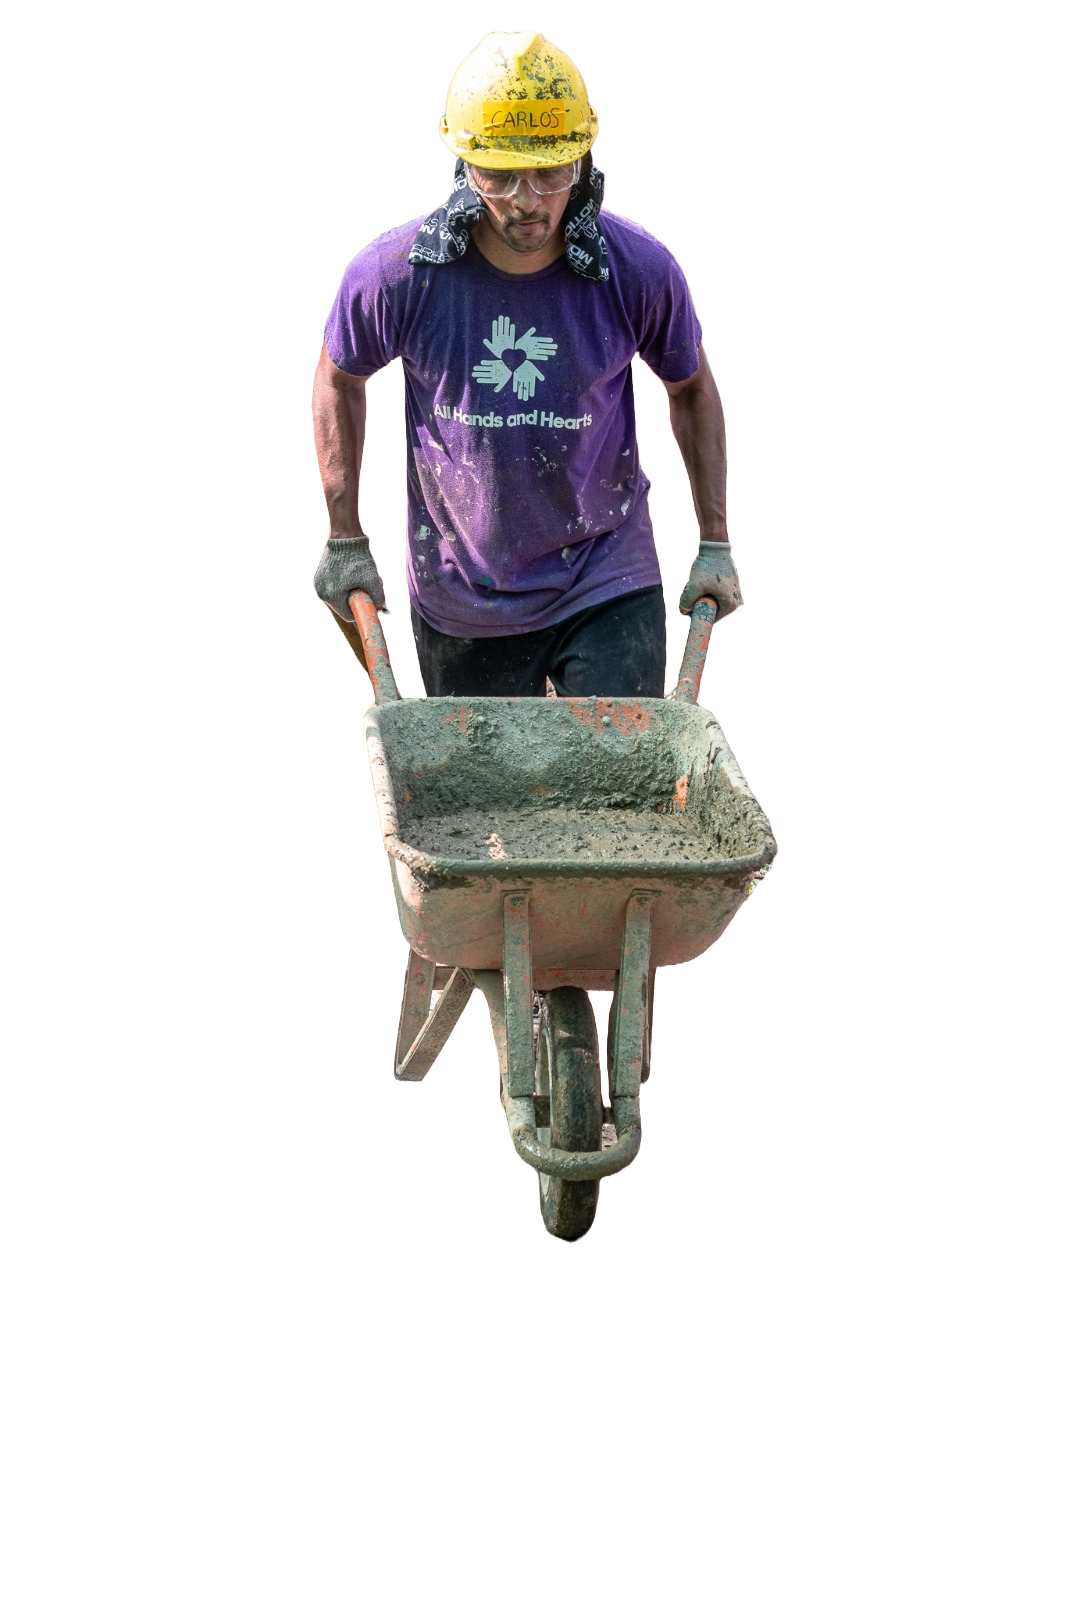
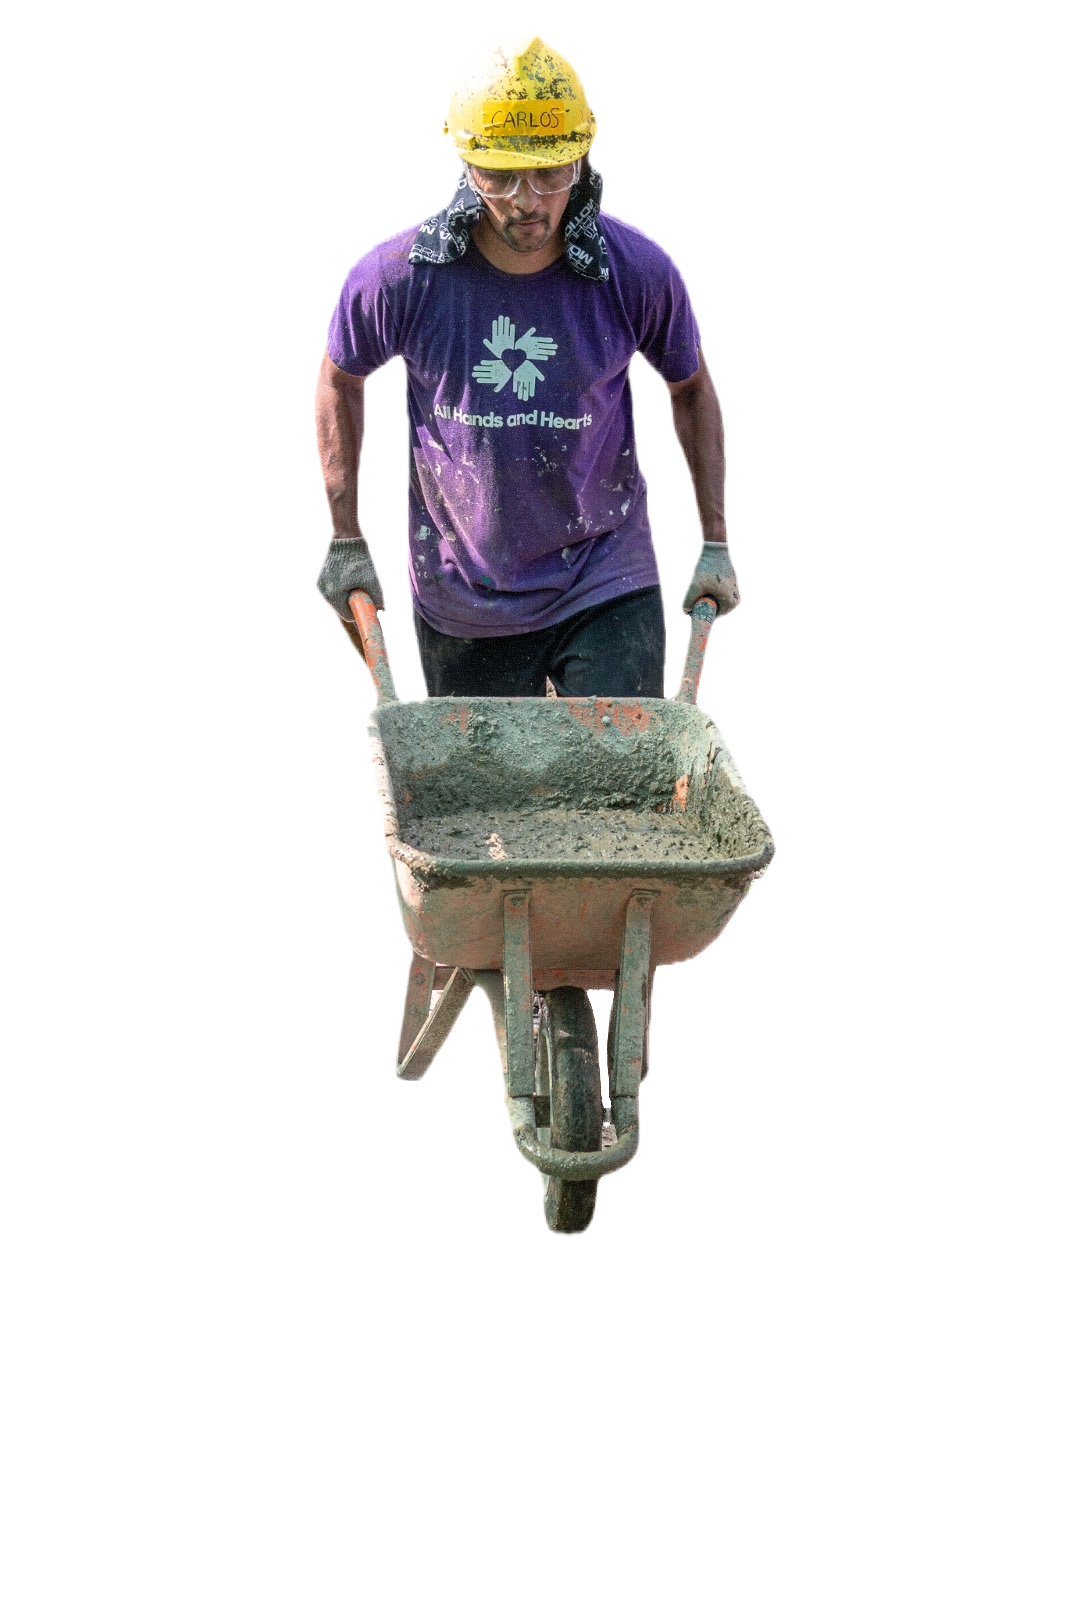
klæ

diff --git a/pages/travel/flight-log.html b/pages/travel/flight-log.html
@@ -126,6 +126,21 @@
     }
     .hs-unit { font-family: 'JetBrains Mono', monospace; font-size: 0.62rem; letter-spacing: 0.14em; color: var(--c-travel); text-transform: uppercase; margin-top: 0.3rem; }
     .hs-lbl { font-size: 0.78rem; color: var(--mute); margin-top: 0.3rem; line-height: 1.3; }
+    /* ── STATS + GLOBE side-by-side row ── */
+    .stats-globe-row {
+      display: flex; gap: 2.5rem; align-items: flex-start; margin-bottom: 4rem;
+    }
+    .sgr-left { flex: 0 0 300px; }
+    .sgr-right { flex: 1; min-width: 0; }
+    .sgr-left .hero-stats {
+      grid-template-columns: repeat(2, 1fr);
+      margin-bottom: 0;
+    }
+    @media (max-width: 1000px) {
+      .stats-globe-row { flex-direction: column; }
+      .sgr-left { flex: none; width: 100%; }
+      .sgr-left .hero-stats { grid-template-columns: repeat(3, 1fr); }
+    }
     @media (max-width: 900px) { .hero-stats { grid-template-columns: repeat(3, 1fr); gap: 1.5rem 1rem; } }
     @media (max-width: 480px) { .hero-stats { grid-template-columns: repeat(2, 1fr); padding: 1.5rem; } }
 
@@ -671,11 +686,12 @@
     @keyframes hintPulse { 0%,100% { opacity: 0.4; } 50% { opacity: 1; } }
     .globe-hint.fade { opacity: 0; }
     .globe-legend {
-      position: absolute; top: 1rem; right: 1rem; z-index: 5;
-      display: flex; flex-direction: column; gap: 0.45rem;
+      display: flex; flex-direction: row; gap: 1.25rem;
+      align-items: center;
+      margin-top: 0.75rem;
+      padding: 0.6rem 0.9rem;
       background: rgba(8,9,14,0.65); backdrop-filter: blur(12px);
-      border: 1px solid var(--line); border-radius: 12px;
-      padding: 0.8rem 0.95rem;
+      border: 1px solid var(--line); border-radius: 10px;
       font-family: 'JetBrains Mono', monospace;
       font-size: 0.62rem; letter-spacing: 0.1em; text-transform: uppercase;
       color: var(--text-dim);
@@ -873,54 +889,54 @@
     <p>176 flights logged since 2000 — every boarding pass, every aircraft type, every airport. Tracked on FlightRadar24 and mirrored here. Below: live ADS-B feed from my receiver in Aarhus, plus the full lifetime ledger.</p>
   </div>
 
-  <!-- ══ HERO STATS ══ -->
-  <div class="hero-stats wow">
-    <div class="hs-cell">
-      <div class="hs-num" data-target="176">0</div>
-      <div class="hs-unit">flights</div>
-      <div class="hs-lbl">Logged since 2000</div>
+  <!-- ══ STATS + GLOBE ══ -->
+  <div class="stats-globe-row wow">
+    <div class="sgr-left">
+      <div class="hero-stats">
+        <div class="hs-cell">
+          <div class="hs-num" data-target="176">0</div>
+          <div class="hs-unit">flights</div>
+          <div class="hs-lbl">Logged since 2000</div>
+        </div>
+        <div class="hs-cell">
+          <div class="hs-num" data-target="491">0</div>
+          <div class="hs-unit">hours airborne</div>
+          <div class="hs-lbl">≈ 20.5 days in the sky</div>
+        </div>
+        <div class="hs-cell">
+          <div class="hs-num" data-target="40">0</div>
+          <div class="hs-unit">countries</div>
+          <div class="hs-lbl">4 continents touched</div>
+        </div>
+        <div class="hs-cell">
+          <div class="hs-num" data-target="71">0</div>
+          <div class="hs-unit">airports</div>
+          <div class="hs-lbl">Unique IATA codes</div>
+        </div>
+        <div class="hs-cell">
+          <div class="hs-num" data-target="43">0</div>
+          <div class="hs-unit">airlines</div>
+          <div class="hs-lbl">From flag-carriers to LCCs</div>
+        </div>
+        <div class="hs-cell">
+          <div class="hs-num" data-target="36">0</div>
+          <div class="hs-unit">aircraft types</div>
+          <div class="hs-lbl">A380s to Twin Otters</div>
+        </div>
+      </div>
     </div>
-    <div class="hs-cell">
-      <div class="hs-num" data-target="491">0</div>
-      <div class="hs-unit">hours airborne</div>
-      <div class="hs-lbl">≈ 20.5 days in the sky</div>
-    </div>
-    <div class="hs-cell">
-      <div class="hs-num" data-target="40">0</div>
-      <div class="hs-unit">countries</div>
-      <div class="hs-lbl">4 continents touched</div>
-    </div>
-    <div class="hs-cell">
-      <div class="hs-num" data-target="71">0</div>
-      <div class="hs-unit">airports</div>
-      <div class="hs-lbl">Unique IATA codes</div>
-    </div>
-    <div class="hs-cell">
-      <div class="hs-num" data-target="43">0</div>
-      <div class="hs-unit">airlines</div>
-      <div class="hs-lbl">From flag-carriers to LCCs</div>
-    </div>
-    <div class="hs-cell">
-      <div class="hs-num" data-target="36">0</div>
-      <div class="hs-unit">aircraft types</div>
-      <div class="hs-lbl">A380s to Twin Otters</div>
-    </div>
-  </div>
-
-  <!-- ══ GLOBE — flight routes ══ -->
-  <section class="section wow">
-    <div class="section-eyebrow">Worldview</div>
-    <h2>Routes around the world</h2>
-    <div class="globe-stage">
-      <div id="flight-globe"></div>
+    <div class="sgr-right">
+      <div class="globe-stage">
+        <div id="flight-globe"></div>
+        <div class="globe-hint">Drag · Scroll to zoom</div>
+        <div class="globe-loading" id="globeLoading"><div class="spinner"></div><p>Initialising globe…</p></div>
+      </div>
       <div class="globe-legend">
         <div class="lg-row"><span class="lg-swatch" style="background:linear-gradient(90deg, rgba(255,204,132,0.3), rgba(255,232,184,0.6), rgba(255,248,224,0.9), #ffffff)"></span> Flight route</div>
         <div class="lg-row"><span class="lg-dot" style="background:#ff3344;box-shadow:0 0 6px #ff3344"></span> Airport visited</div>
       </div>
-      <div class="globe-hint">Drag · Scroll to zoom</div>
-      <div class="globe-loading" id="globeLoading"><div class="spinner"></div><p>Initialising globe…</p></div>
     </div>
-  </section>
+  </div>
 
   <!-- ══ TOP BREAKDOWN ══ -->
   <section class="section wow">
@@ -1894,6 +1910,21 @@
     const CLIMB_FRAC  = 0.18;    // first 18% of the journey is the climb (gentler arc)
     const SAMPLES     = 96;      // more waypoints → smoother curve visually
 
+    // Speed constant: animTime scales linearly with great-circle angle so every
+    // comet travels at the same angular speed regardless of route length.
+    const GC_SPEED_MS = 11000; // ms per radian of arc
+    const MIN_ANIM_MS = 2800;  // floor so very short hops still look clean
+
+    function gcAngleRad(latA, lonA, latB, lonB) {
+      const toRad = d => d * Math.PI / 180;
+      const φ1 = toRad(latA), φ2 = toRad(latB);
+      const λ1 = toRad(lonA), λ2 = toRad(lonB);
+      const Δφ = φ2 - φ1, Δλ = λ2 - λ1;
+      return 2 * Math.asin(Math.sqrt(
+        Math.sin(Δφ/2)**2 + Math.cos(φ1)*Math.cos(φ2)*Math.sin(Δλ/2)**2
+      ));
+    }
+
     // Great-circle interpolation (spherical linear) between two lat/lon points
     function interpolateGC(lat1, lon1, lat2, lon2, t) {
       const toRad = d => d * Math.PI / 180;
@@ -1940,12 +1971,24 @@
     // behind the head like the tail of a comet. Each successive layer has a
     // longer/darker dash → fades from a bright white head into a warm amber
     // tail. Shared animateTime drives them all together.
-    const COMET_LAYERS = [
-      { mode: 'head',  color: '#ffffff',                     stroke: 2.6, dash: 0.022, offset:  0.000 },
-      { mode: 'tail1', color: 'rgba(255, 248, 224, 0.85)',   stroke: 2.2, dash: 0.030, offset: -0.025 },
-      { mode: 'tail2', color: 'rgba(255, 232, 184, 0.55)',   stroke: 1.8, dash: 0.045, offset: -0.060 },
-      { mode: 'tail3', color: 'rgba(255, 204, 132, 0.30)',   stroke: 1.5, dash: 0.070, offset: -0.110 }
-    ];
+    // 14-layer smooth comet — values interpolated so there are no visible
+    // "bands"; opacity uses a squared ease so the fade is gentle near the head
+    // and accelerates toward the tail end.
+    const N_COMET = 14;
+    const COMET_LAYERS = Array.from({ length: N_COMET }, (_, i) => {
+      const t = i / (N_COMET - 1);            // 0 = head … 1 = tail tip
+      const ease = t * t * (3 - 2 * t);       // smoothstep opacity decay
+      const opacity = Math.max(0, 1 - ease);
+      const g = Math.round(255 - t * 80);     // 255 → 175
+      const b = Math.round(255 - t * 185);    // 255 → 70
+      return {
+        mode:   i === 0 ? 'head' : `tail${i}`,
+        color:  i === 0 ? '#ffffff' : `rgba(255,${g},${b},${opacity.toFixed(3)})`,
+        stroke: 2.8 - t * 1.9,                // 2.8 → 0.9
+        dash:   0.016 + t * 0.040,            // 0.016 → 0.056
+        offset: -(t * 0.20)                   // 0 → −0.20
+      };
+    });
 
     const paths = [];
     Object.entries(routeCounts).forEach(([key, count]) => {
@@ -1953,21 +1996,23 @@
       const [latA, lngA] = AIRPORTS[a];
       const [latB, lngB] = AIRPORTS[b];
       const pts = buildFlightPath(latA, lngA, latB, lngB);
+      const animTime = Math.max(MIN_ANIM_MS, GC_SPEED_MS * gcAngleRad(latA, lngA, latB, lngB));
+      const strokeScale = Math.pow(count, 0.4);
       // Random per-route phase so different comets aren't synchronised
       const phase = Math.random();
       // Solid background line
-      paths.push({ points: pts, count, mode: 'solid' });
-      // Layered comet (head → tail3). `initGap` positions each layer along
-      // the cycle; identical cycle length keeps them moving in lockstep.
+      paths.push({ points: pts, count, mode: 'solid', strokeScale, animTime });
+      // Layered comet — all layers share animTime so they stay in lockstep.
       COMET_LAYERS.forEach(layer => {
         paths.push({
           points: pts, count,
           mode: layer.mode,
           color: layer.color,
-          stroke: layer.stroke,
+          stroke: layer.stroke * strokeScale,
           dashLen: layer.dash,
-          dashGap: 1 - layer.dash,          // total cycle = 1 path-length
-          initGap: ((phase + layer.offset) % 1 + 1) % 1
+          dashGap: 1 - layer.dash,
+          initGap: ((phase + layer.offset) % 1 + 1) % 1,
+          animTime
         });
       });
     });
@@ -2012,11 +2057,11 @@
       .pathPointLng(p => p[1])
       .pathPointAlt(p => p[2])
       .pathColor(d => d.mode === 'solid' ? ARC_BASE : d.color)
-      .pathStroke(d => d.mode === 'solid' ? 1.2 : d.stroke)
+      .pathStroke(d => d.mode === 'solid' ? 1.2 * d.strokeScale : d.stroke)
       .pathDashLength(d => d.mode === 'solid' ? 1 : d.dashLen)
       .pathDashGap(d => d.mode === 'solid' ? 0 : d.dashGap)
       .pathDashInitialGap(d => d.initGap ?? 0)
-      .pathDashAnimateTime(5500)
+      .pathDashAnimateTime(d => d.animTime ?? MIN_ANIM_MS)
       .pathTransitionDuration(0)
       .pathLabel(d => `<div style="font-family:'JetBrains Mono',monospace;font-size:.7rem;background:rgba(8,9,14,.92);border:1px solid rgba(106,141,181,.4);padding:.45rem .7rem;border-radius:8px;color:#ececea;letter-spacing:.05em"><b>${d.count}×</b> flight${d.count>1?'s':''}</div>`)
       // ── Lollipop pins (red) ──

diff --git a/pages/travel/volunteering.html b/pages/travel/volunteering.html
@@ -147,7 +147,7 @@
       will-change: transform;
     }
     .hero-img-center {
-      position: absolute; right: 5vw; bottom: 0;
+      position: absolute; right: 5vw; bottom: -26vh;
     }
     .hero-parallax-img {
       display: block; height: 130vh; width: auto; max-width: none;
